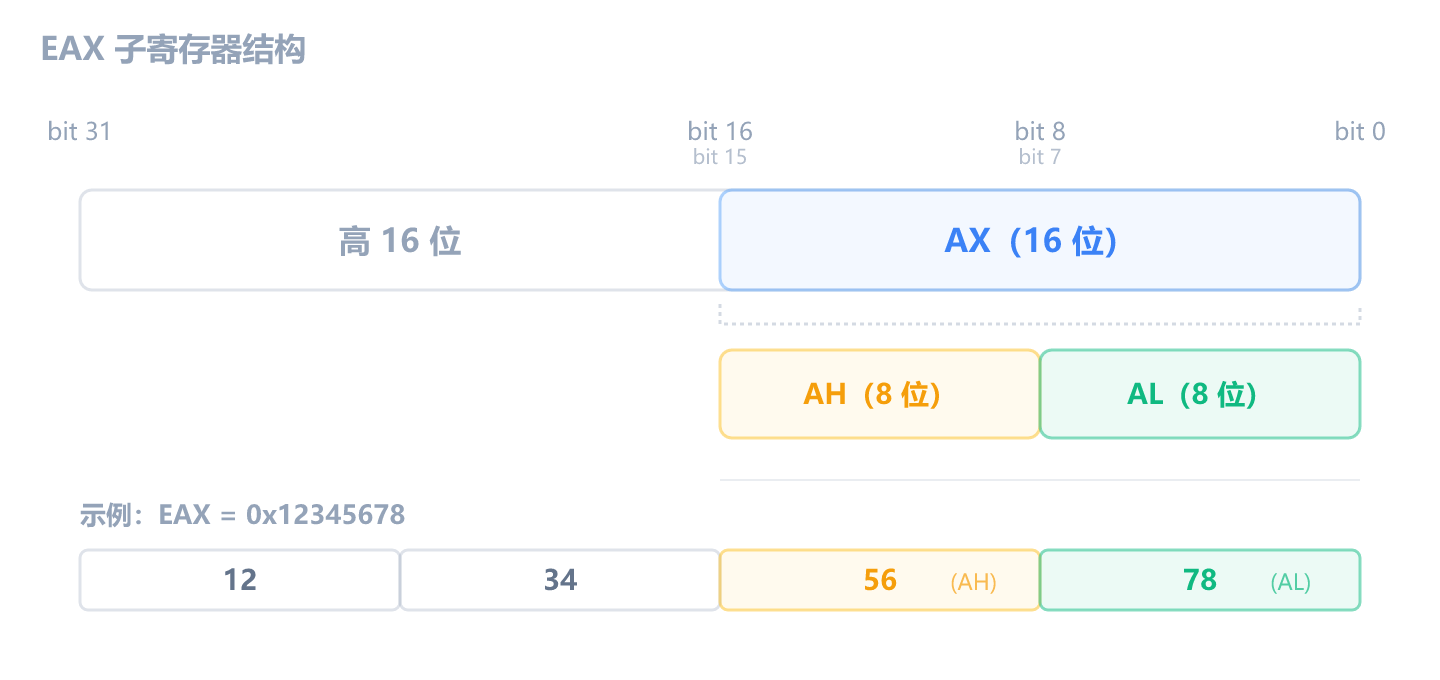
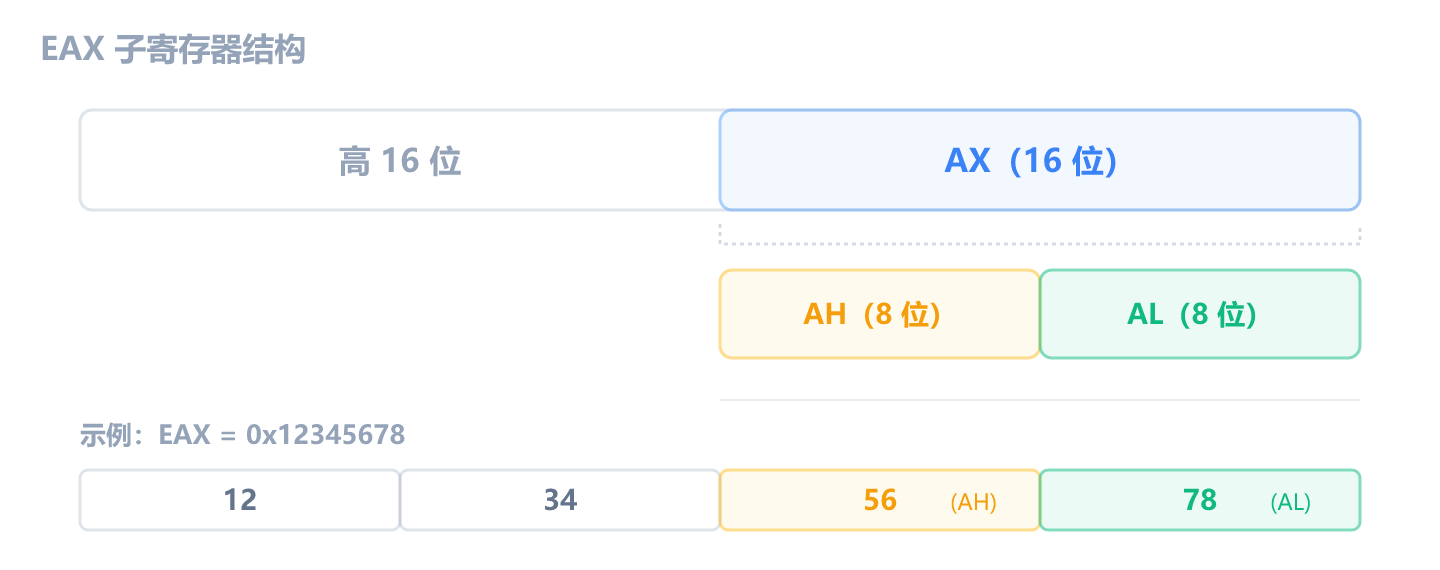
fix: normalize ch2-3 SVGs, tables, and kbd formatting

diff --git a/src/data/books/reverse-engineering/getting-started/number-basics.md b/src/data/books/reverse-engineering/getting-started/number-basics.md
@@ -35,11 +35,11 @@ order: 2
 
 你后面会反复看到的几个术语：
 
-| 名称 | 英文  | 位数 | 字节数 | 无符号范围          |
-| ---- | ----- | ---- | ------ | ------------------- |
-| 字节 | byte  | 8    | 1      | `0 ~ 255`           |
-| 字   | word  | 16   | 2      | `0 ~ 65,535`        |
-| 双字 | dword | 32   | 4      | `0 ~ 4,294,967,295` |
+| 名称 | 英文  | 位数 | 字节数 |
+| ---- | ----- | ---- | ------ |
+| 字节 | byte  | 8    | 1      |
+| 字   | word  | 16   | 2      |
+| 双字 | dword | 32   | 4      |
 
 32 位程序里，一个 int 就是 4 字节（双字），一个地址也是 4 字节。暂时不会碰到 64 位的四字（qword）。
 
@@ -118,11 +118,11 @@ order: 2
 
 上面用 8 位讲的原理，对 16 位和 32 位完全一样—只是位数多了，范围更大：
 
-| 位数 | 最大无符号值         | 有符号范围（简写） | 最大正数     | 最小负数     |
-| ---- | -------------------- | ------------------ | ------------ | ------------ |
-| 8    | `0xFF` = 255         | `-128 ~ +127`      | `0x7F`       | `0x80`       |
-| 16   | `0xFFFF` ≈ 6.5 万    | ≈ ±3.2 万          | `0x7FFF`     | `0x8000`     |
-| 32   | `0xFFFFFFFF` ≈ 43 亿 | ≈ ±21 亿           | `0x7FFFFFFF` | `0x80000000` |
+| 位数 | 最大无符号值 | 无符号范围         | 最大正数     | 最小负数     | 有符号范围                   |
+| ---- | ------------ | ------------------ | ------------ | ------------ | ---------------------------- |
+| 8    | `0xFF`       | `0 ~ 255`          | `0x7F`       | `0x80`       | `-128 ~ +127`                |
+| 16   | `0xFFFF`     | `0 ~ 65,535`       | `0x7FFF`     | `0x8000`     | `-32,768 ~ +32,767`          |
+| 32   | `0xFFFFFFFF` | `0 ~ 4,294,967,295`| `0x7FFFFFFF` | `0x80000000` | `-2,147,483,648 ~ +2,147,483,647` |
 
 32 位那个 `0xFFFFFFFF` ≈ 43 亿，看起来很大，但其实就是四个字节全填 F。在 x64dbg 里你看到的地址和 int 值都是 32 位的，所以这个范围你每天都会碰到。
 

diff --git a/src/data/books/reverse-engineering/assembly-basics/asm-string.md b/src/data/books/reverse-engineering/assembly-basics/asm-string.md
@@ -404,9 +404,9 @@ memset(p, 0, count);
 x64dbg 实操。加载第一章的 CrackMe 程序（或任意 32 位程序），完成以下操作：
 
 1. 在反汇编窗口右键 -> 搜索 -> 当前模块 -> 搜索指令，输入 `rep`，看看能不能找到 `rep movs`、`rep stos` 或 `repne scas`
-2. 如果找到了，在 `rep` 那行设断点（F2），F9 运行到断点
+2. 如果找到了，在 `rep` 那行设断点（<kbd>F2</kbd>），<kbd>F9</kbd> 运行到断点
 3. 查看寄存器窗口中 ESI、EDI、ECX 的值
-4. 按 F8 单步执行，观察：ESI/EDI 怎么变化的？ECX 怎么变化的？内存窗口中目标地址的内容怎么变化的？
+4. 按 <kbd>F8</kbd> 单步执行，观察：ESI/EDI 怎么变化的？ECX 怎么变化的？内存窗口中目标地址的内容怎么变化的？
 5. 判断这段代码在做什么（memcpy？memset？strlen？）
 
 <details>
@@ -417,7 +417,7 @@ x64dbg 实操。加载第一章的 CrackMe 程序（或任意 32 位程序），
 1. 大多数 32 位程序都能找到 `rep` 指令，尤其是 `rep stosd`（初始化局部变量）和 `rep movsd`（复制结构体/数组）
 2. 设断点后运行到断点
 3. 观察 ECX 的值——它告诉你操作多少个单元（字节/字/双字）
-4. F8 单步时：
+4. <kbd>F8</kbd> 单步时：
    - `rep stosd`：EDI 每次加 4，ECX 每次减 1，EAX 的值被写入 [EDI]
    - `rep movsd`：ESI 每次加 4，EDI 每次加 4，ECX 每次减 1，[ESI] 被复制到 [EDI]
 5. 如果前面有 `xor eax, eax` -> memset 清零；如果有 ESI/EDI 两个源 -> memcpy

diff --git a/src/data/books/reverse-engineering/assembly-basics/asm-memory-access.md b/src/data/books/reverse-engineering/assembly-basics/asm-memory-access.md
@@ -242,7 +242,7 @@ END                      ; 结束
 ### 怎么用这块画布
 
 > [!TIP]
-> 在 x64dbg 里怎么找到那片 NOP 区域？程序加载后会停在系统断点，按 <kbd>Alt</kbd>+<kbd>F9</kbd>（执行到用户代码）就能跳到你的 NOP 区域。按**空格键**，输入你想实验的指令（比如 `mov eax, 0x12345678`），回车确认。光标自动移到下一行，你可以继续输入下一条。输入完毕后在第一条按 **F2** 设断点，**F9** 运行到这里，然后 **F8** 单步执行，观察寄存器和标志位的变化。
+> 在 x64dbg 里怎么找到那片 NOP 区域？程序加载后会停在系统断点，按 <kbd>Alt</kbd>+<kbd>F9</kbd>（执行到用户代码）就能跳到你的 NOP 区域。按 **空格键**，输入你想实验的指令（比如 `mov eax, 0x12345678`），回车确认。光标自动移到下一行，你可以继续输入下一条。输入完毕后在第一条按 <kbd>F2</kbd> 设断点，<kbd>F9</kbd> 运行到这里，然后 <kbd>F8</kbd> 单步执行，观察寄存器和标志位的变化。
 
 后面每章的 x64dbg 实操都可以用这个程序来练习。写错了也不用怕，重新把 exe 拖进 x32dbg 就恢复原样了。
 

diff --git a/src/data/books/reverse-engineering/assembly-basics/asm-branch.md b/src/data/books/reverse-engineering/assembly-basics/asm-branch.md
@@ -745,11 +745,11 @@ AND  = 0011 0000 = 0x30
 
 打开第一章的 CrackMe 程序，找到 `test eax, eax` + `jne` 那个位置。做以下操作：
 
-1. 在 `jne` 那行设断点（F2），按 F9 运行到那里
+1. 在 `jne` 那行设断点（<kbd>F2</kbd>），按 <kbd>F9</kbd> 运行到那里
 2. 在寄存器窗口双击 EAX，手动改成 `0x00000000`
-3. 按 F8 单步执行 `jne`——它跳了吗？为什么？
+3. 按 <kbd>F8</kbd> 单步执行 `jne`——它跳了吗？为什么？
 4. 重新运行，这次把 EAX 改成 `0x00000001`
-5. 按 F8 单步执行 `jne`——它跳了吗？为什么？
+5. 按 <kbd>F8</kbd> 单步执行 `jne`——它跳了吗？为什么？
 
 <details>
 <summary>答案</summary>
